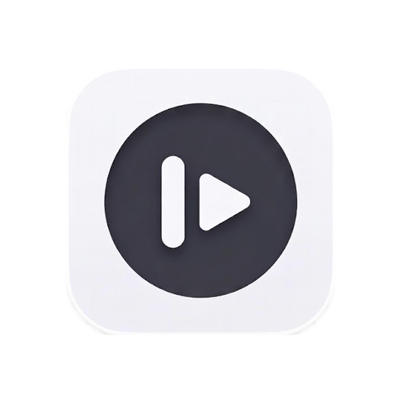
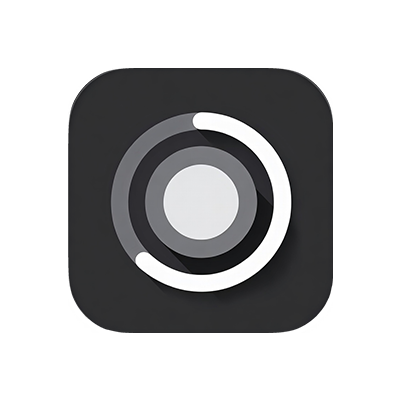
Readme Update

diff --git a/README.md b/README.md
@@ -2,13 +2,11 @@
 
 RemoteCompanion is a modern Activator replacement built specifically for rootless jailbreaks. It lets you bind physical gestures and hardware buttons to system actions, media controls, and custom scripts.
 
-> [!NOTE] 
-> **What's New in v2.0**
-> - **Full UI Redesign**: Modern native look with Large Titles and translucent frosted glass effects.
-> - **Power & Touch ID Triggers**: Added **Power + Volume** combos, **Touch ID (Tap/Hold)**, and **Triple/Quadruple Power clicks**.
-> - **Ringer & Siri Automation**: Hardware ringer switch triggers and a dedicated native Siri action.
-> - **Search Everywhere**: Find actions and shortcuts instantly with new search bars in every picker.
-> - **Native Respring**: Dedicated "Respring Device" action added directly to the UI.
+> [!IMPORTANT]
+> **What's New in v2.1** (Performance Update)
+> - **Instant Execution**: Commands like `rc lock` now run instantly (~0.25s), relying on optimized local TCP probes instead of slower fallback methods.
+> - **Rock-Solid Stability**: The server is now multi-threaded, meaning one bad connection won't freeze the entire system.
+> - **No Conflict Mode**: Ports moved to `12340+` to play nicely with other system tools.
 
 <p align="center">
   <img src="images/IMG_1385.PNG" width="250" alt="RemoteCompanion Interface" />
@@ -22,9 +20,12 @@ RemoteCompanion is a modern Activator replacement built specifically for rootles
 </p>
 
 ## Features
-- **Lightning Fast**: Actions happen in milliseconds.
+- **Lightning Fast**: Actions happen in milliseconds (~0.25s).
 - **Smart Control**: Run actions, open apps, or control settings remotely.
 - **Custom Triggers**: Use the companion app to assign action sequences to gestures, physical buttons, or NFC tags.
+- **Modern UI**: Fully redesigned with native iOS aesthetics, Large Titles, and frosted glass effects.
+- **Universal Search**: Instantly find actions and shortcuts with search bars in every picker.
+- **Advanced Automation**: Full support for Touch ID (Tap/Hold), Ringer Switch, and Siri triggers.
 
 ## What you can do
 
@@ -150,7 +151,8 @@ Actions can even be fired from shortcuts using Powercuts.
 Add this to your `configuration.yaml`:
 ```yaml
 shell_command:
-  iphone_remote: 'echo -n "{{ cmd }}" | nc -w 1 YOUR_IPHONE_IP 1234'
+  iphone_remote: >
+    bash -c 'echo '\''{{ cmd }}'\'' > /dev/tcp/YOUR_IPHONE_IP/12340'
 ```
 Then call it with:
 